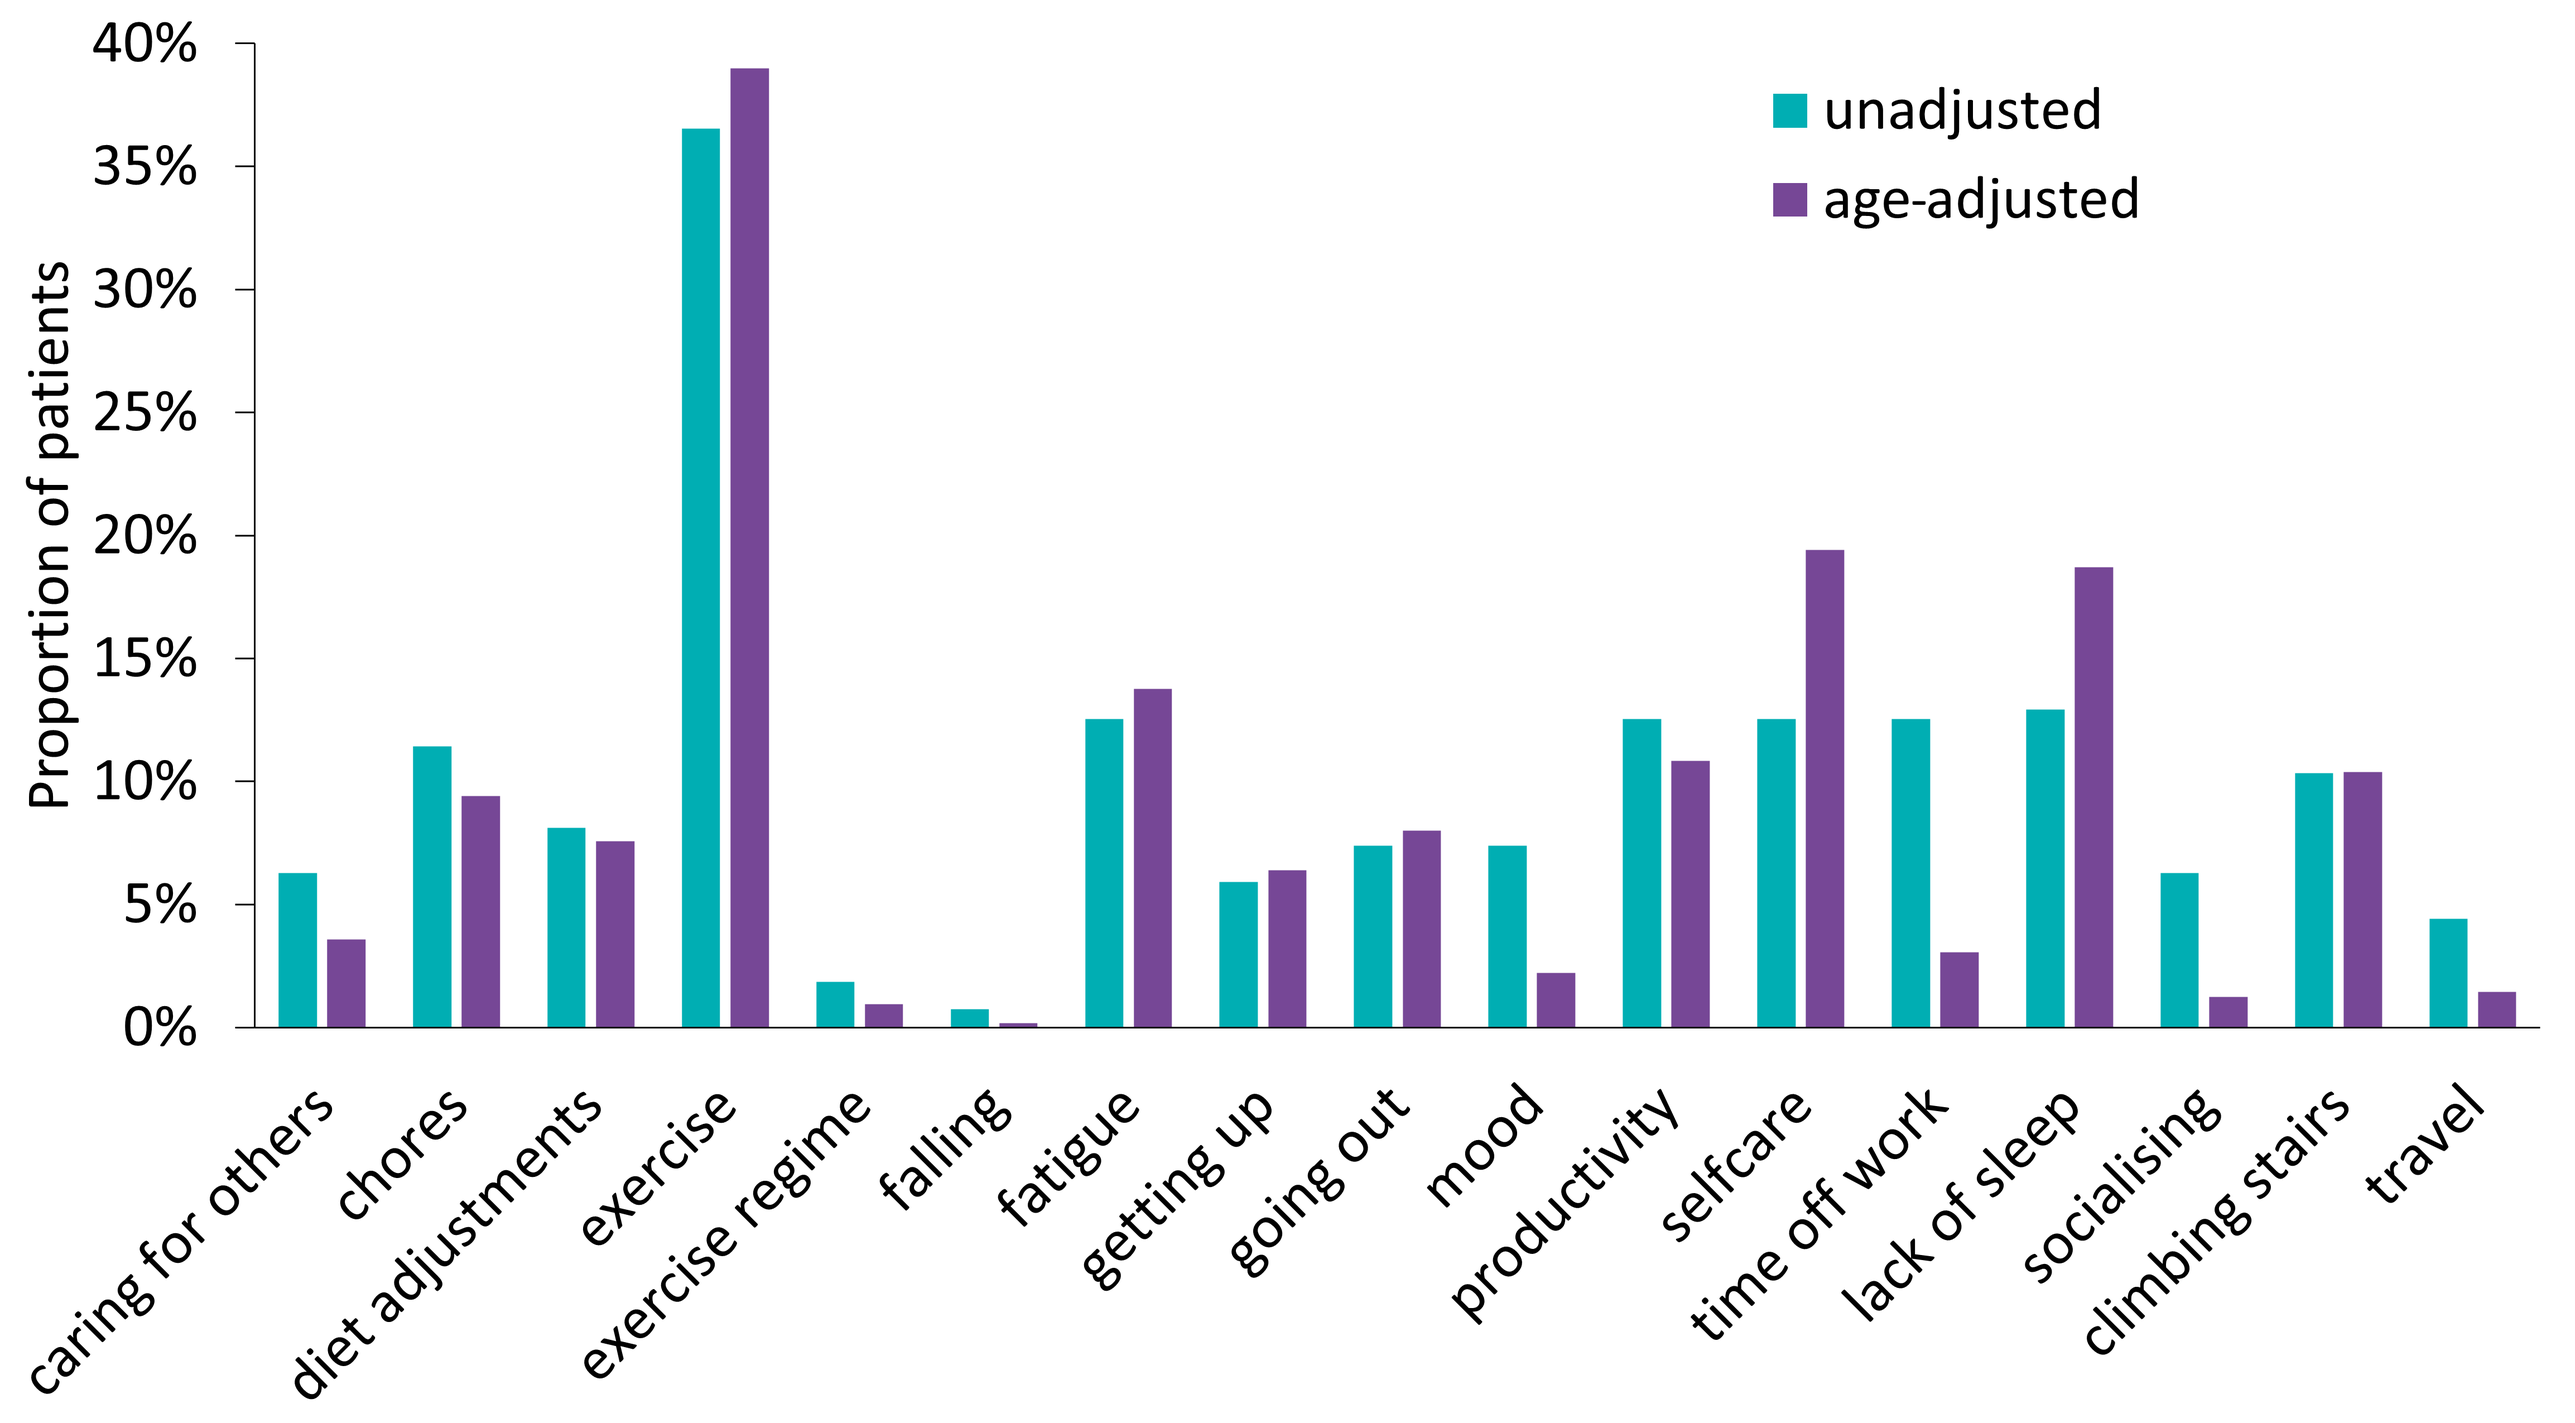
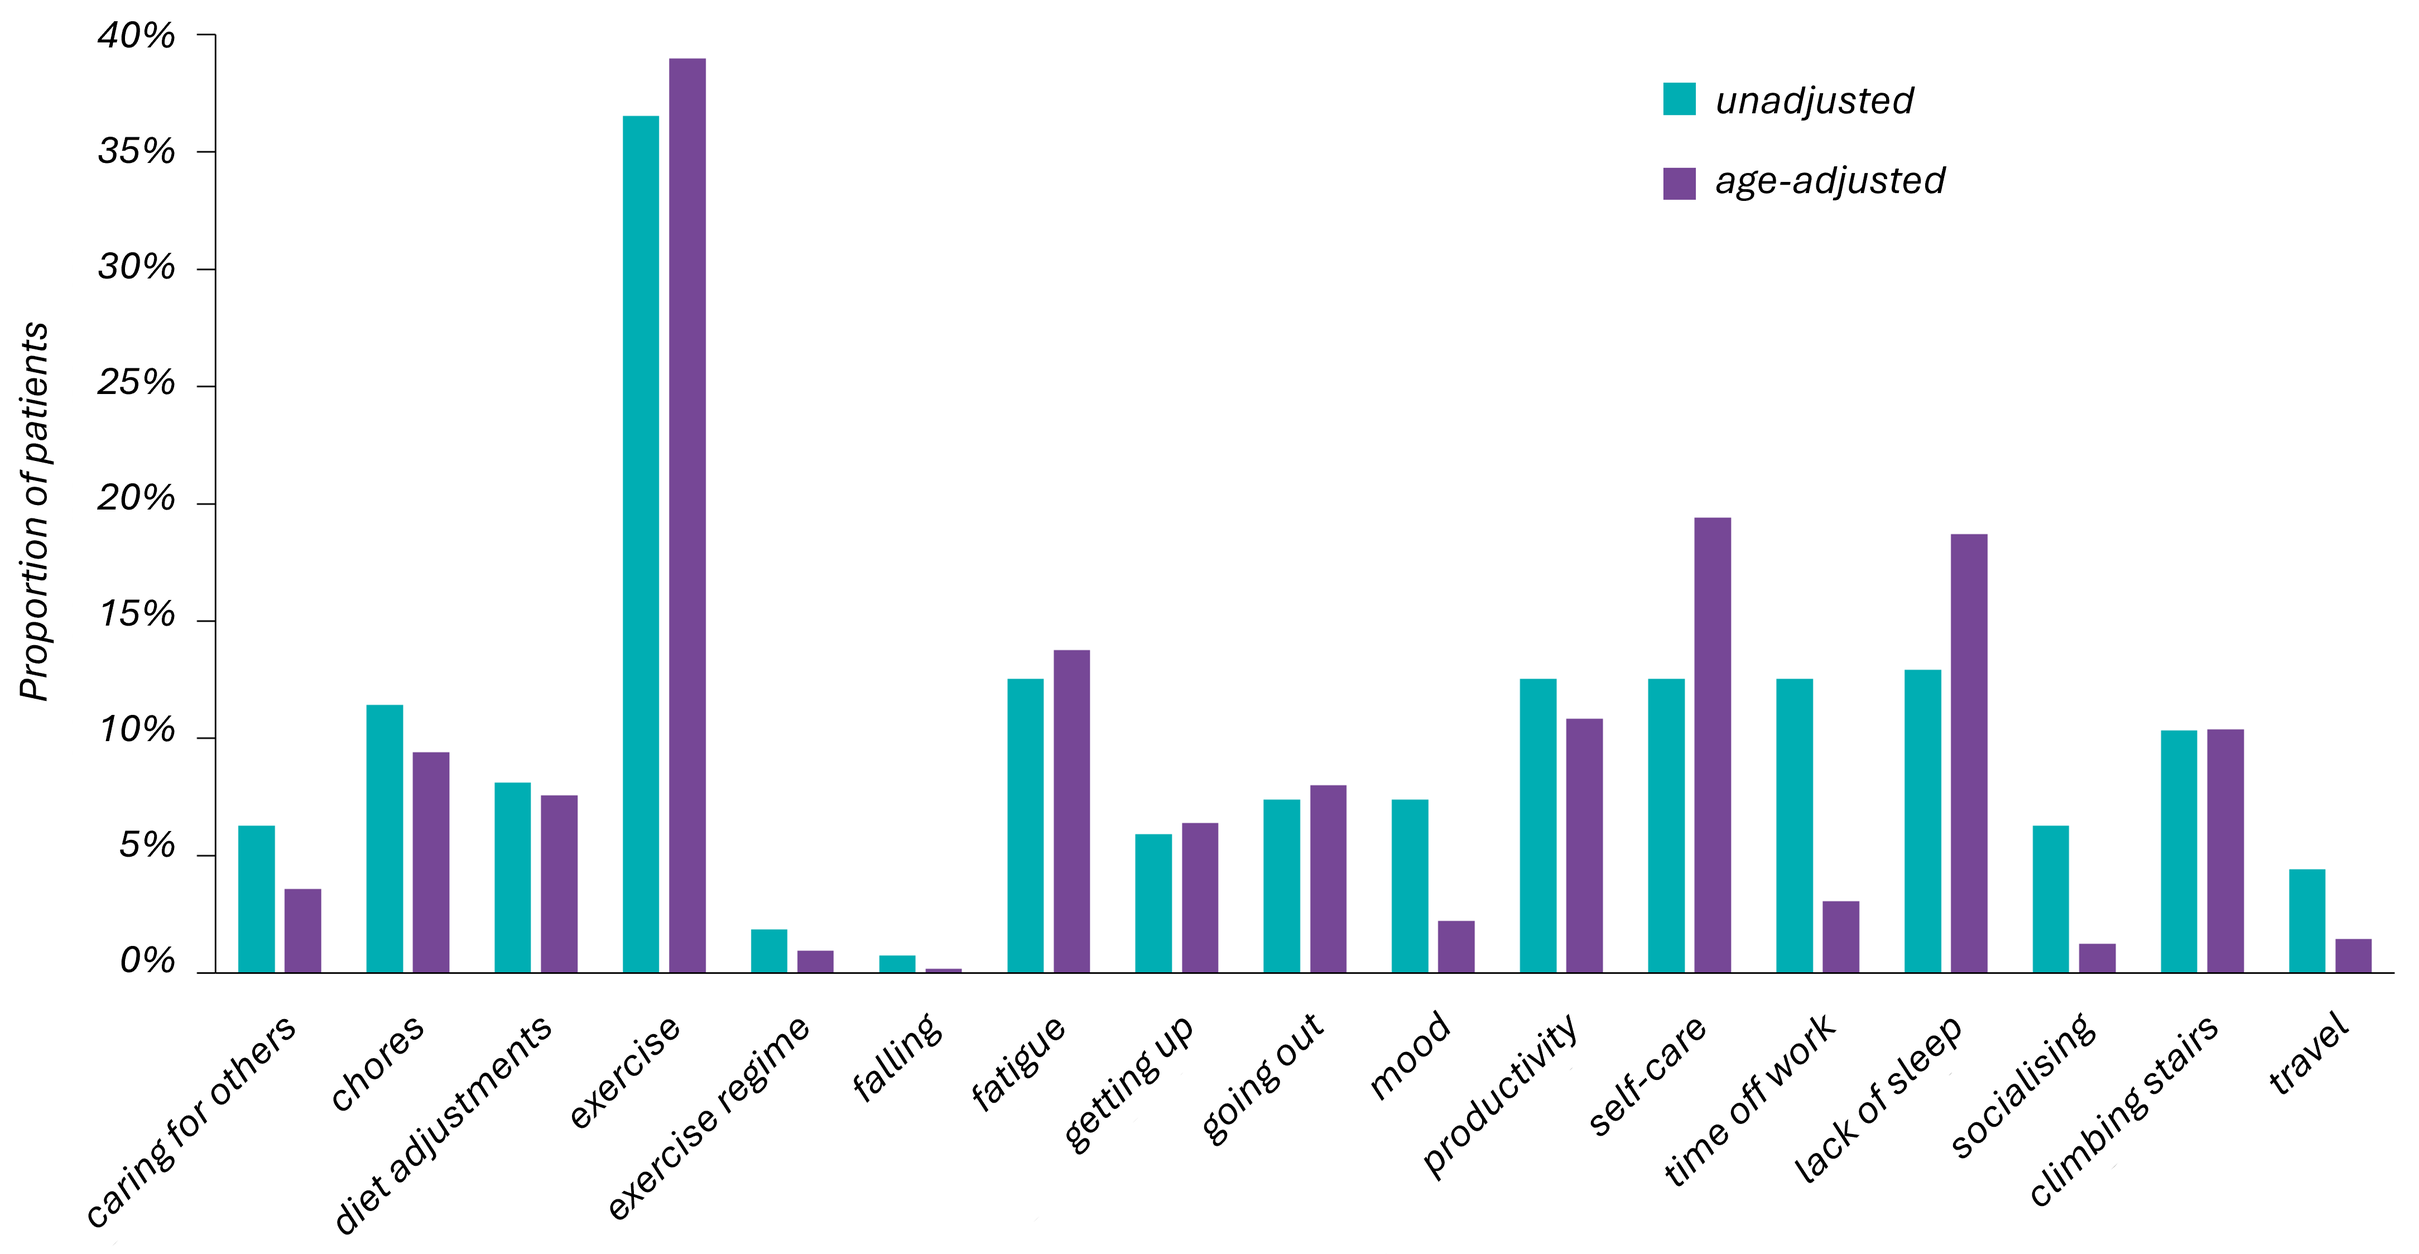
no message

diff --git a/_portfolio/project2.md b/_portfolio/project2.md
@@ -1,15 +1,15 @@
 ---
-title: Reconstructing Patient Journey
+title: Reconstructing Patient Journeys
 subtitle: "Case study: Unravelling the routes to diagnosis of a rare disease: ANCA-associated vasculitis (AAV)"
 image: assets/img/portfolio/aav.png
 alt: 
 
 caption:
-  title: Reconstructing Patient Journey
+  title: Reconstructing Patient Journeys
   subtitle: Routes to diagnosis and care pathway
   thumbnail: assets/img/portfolio/thumb2.jpeg
 ---
-Mebomine helps discover factors that shape the diagnosis and treatment journey of patients through healthcare systems. These insights can help accelerate future diagnoses and get new treatments to patients more quickly.
+Mebomine helps discover factors that shape the diagnosis and treatment journey of patients through healthcare systems. These insights can accelerate future diagnoses and get new treatments to patients more quickly.
 
 For more details on this case study contact us.
 

diff --git a/_portfolio/project1.md b/_portfolio/project1.md
@@ -1,11 +1,11 @@
 ---
-title: AI-Assisted Concept Elicitation
+title: AI-assisted Concept Elicitation
 subtitle: "Case study: Understanding the lived experience of patients with chronic heart failure (CHF)"
 image: assets/img/portfolio/chf.png
 alt: 
 
 caption:
-  title: AI-Assisted Concept Elicitation
+  title: AI-assisted Concept Elicitation
   subtitle: Patient-centered outcome measures
   thumbnail: assets/img/portfolio/thumb1.jpeg
 ---
